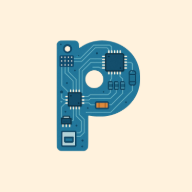
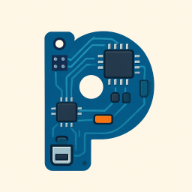
Generated PWA from pampanet/pampanet_org/refs/heads/main@59040620415090f28bff682165154a388d9946d0

diff --git a/flutter_service_worker.js b/flutter_service_worker.js
@@ -44,18 +44,19 @@ const RESOURCES = {"canvaskit/skwasm.js": "f2ad9363618c5f62e813740099a80e63",
 "assets/packages/cupertino_icons/assets/CupertinoIcons.ttf": "33b7d9392238c04c131b6ce224e13711",
 "assets/packages/iconsax_flutter/fonts/FlutterIconsax.ttf": "83c878235f9c448928034fe5bcba1c8a",
 "assets/AssetManifest.json": "681131d33d41559440a1fc5c198c2887",
-"version.json": "3bd67a33749449866b8d693858039a71",
+"version.json": "3e6eb5d2d8b97cfff809322cdeb73ffa",
 "flutter.js": "76f08d47ff9f5715220992f993002504",
+"favicon.ico": "a983ad2e326e94e9c4f3c5ad45da195f",
 "main.dart.js": "2ae2001ca1bf5db9cac215a22c9355e6",
 "sqflite_sw.js": "27b8e8e5234ade44f4319929336c73e9",
 "icons/Icon-maskable-512.png": "301a7604d45b3e739efc881eb04896ea",
-"icons/Icon-192.png": "2d880ab045f26d45880166ad021573db",
-"icons/Icon-512.png": "79bbe95841141d2e912dd10648e68992",
+"icons/Icon-192.png": "97f4823bb51f886c9e31caa4aa18eb78",
+"icons/Icon-512.png": "99441fdbca2b2cd8dc8bf47e41a151c7",
 "icons/Icon-maskable-192.png": "c457ef57daa1d16f64b27b786ec2ea3c",
 "manifest.json": "d689a59ad186b1dbdf56566bbb6ae628",
-"favicon.png": "4e5ebef4ea4657e30b43b446dc15a433",
+"favicon.png": "721fea7af016997d6953e6229e3467eb",
 "drift_worker.dart.js": "90effdfcc99037ed718548b234ab5275",
-"flutter_bootstrap.js": "12ed0a1f7278ff2392376e1096af22a8"};
+"flutter_bootstrap.js": "eed35c02ee39357b9442053db59c22ae"};
 // The application shell files that are downloaded before a service worker can
 // start.
 const CORE = ["main.dart.js",

diff --git a/flutter_bootstrap.js b/flutter_bootstrap.js
@@ -27,6 +27,6 @@ _flutter.loader.load({
   },
   serviceWorkerSettings: {
     serviceWorkerUrl: currentPath+"flutter_service_worker.js",
-    serviceWorkerVersion: "4253060481",
+    serviceWorkerVersion: "4050446811",
   }
 });
